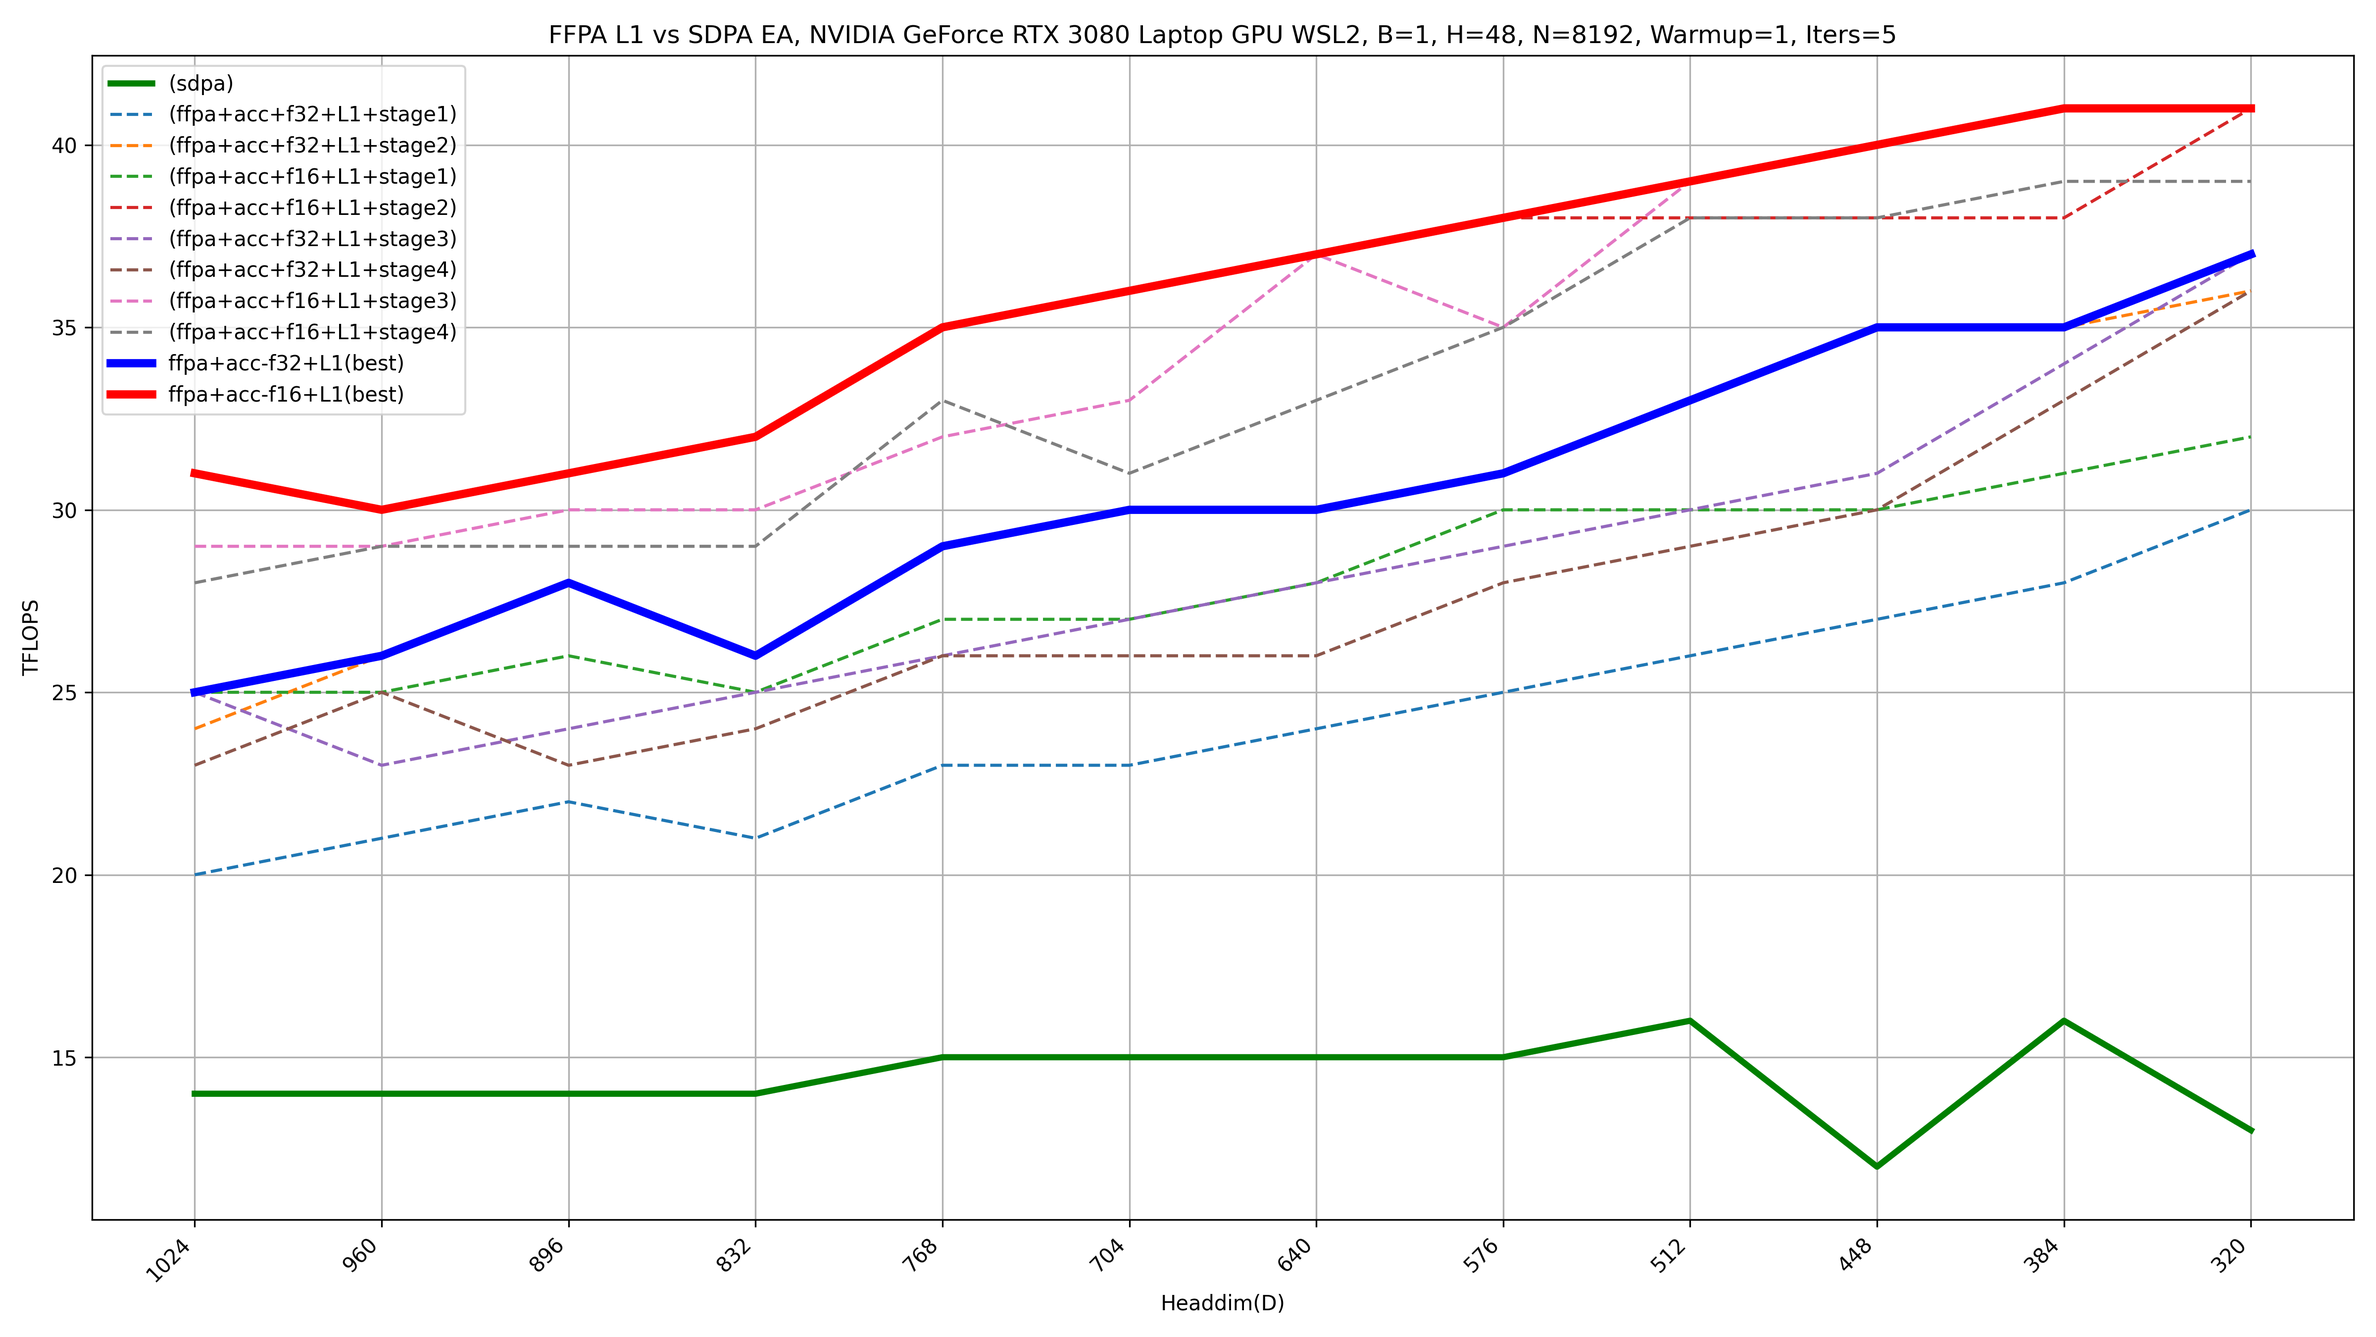
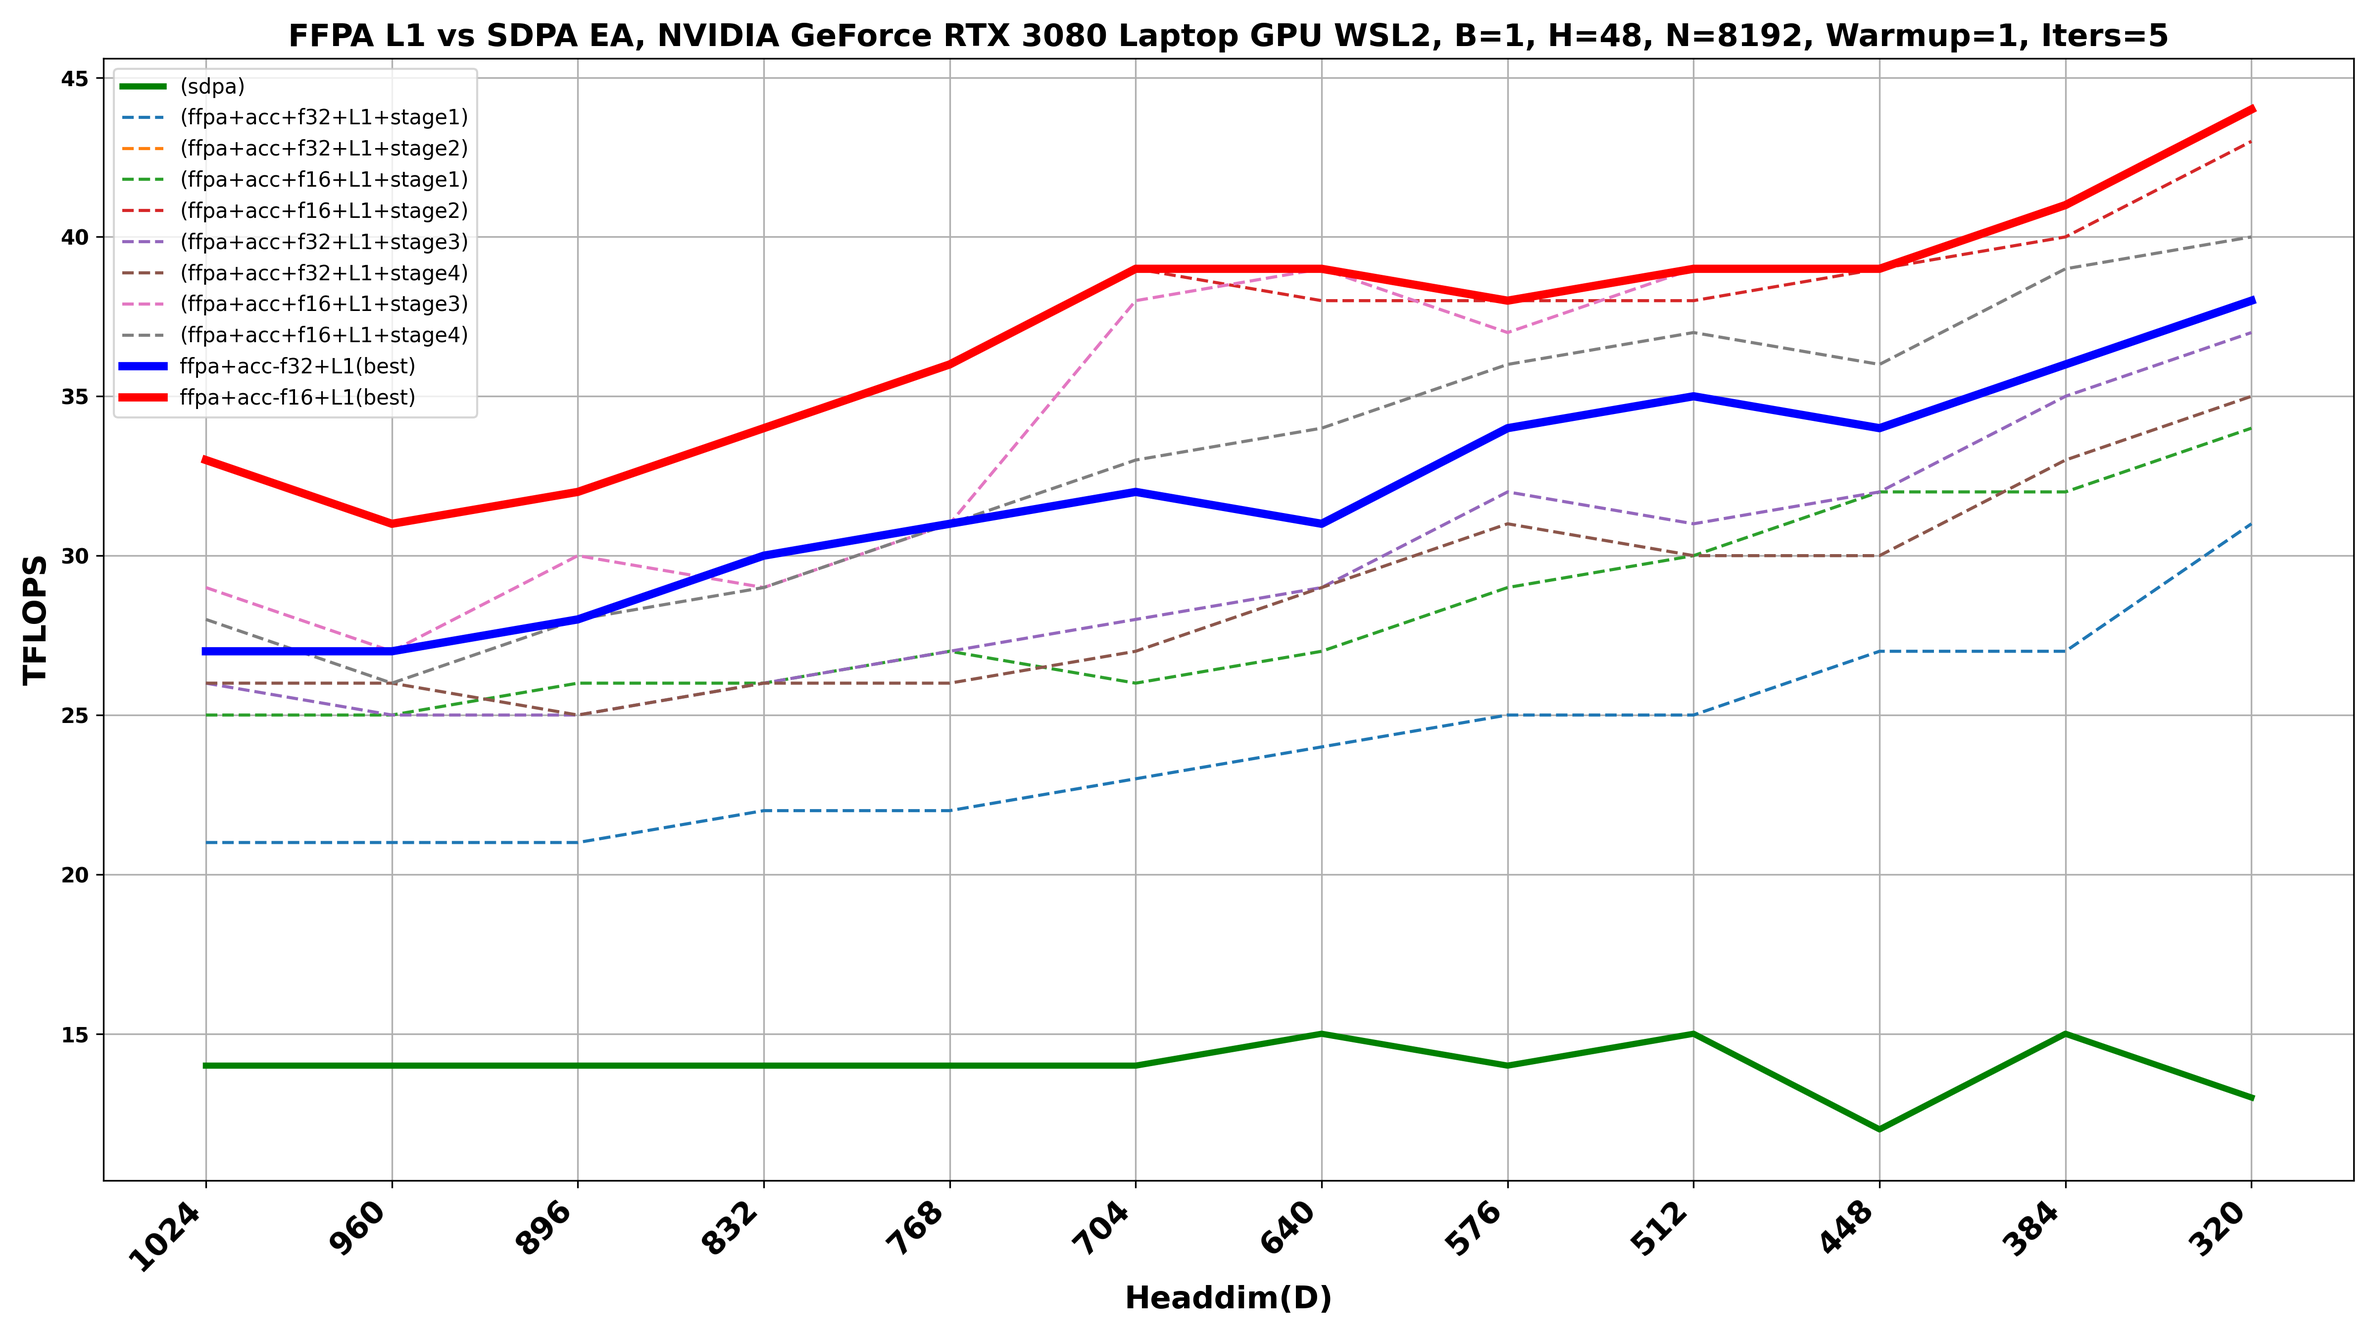
update perf plots

diff --git a/env.py b/env.py
@@ -4,7 +4,7 @@ import torch
 
 
 class ENV(object):
-    # ENVs for pyffpa compiling
+    # ENVs for FFPA kernels compiling
 
     # Project dir, path to faster-prefill-attention
     PROJECT_DIR = os.path.dirname(os.path.abspath(__file__))
@@ -41,22 +41,30 @@ class ENV(object):
     ENABLE_FFPA_PREFETCH_QKV = bool(int(os.environ.get("ENABLE_FFPA_PREFETCH_QKV", 1)))
 
     # Enable QKV smem shared policy, default False (perfered for MMA & g2s overlap).
-    # Set it as True on low SRAM device.
-    ENABLE_FFPA_QKV_SMEM_SHARE = bool(int(os.environ.get("ENABLE_FFPA_QKV_SMEM_SHARE", 0)))
+    # Please, set it as True if you want to run FFPA on low SRAM device.
+    ENABLE_FFPA_QKV_SMEM_SHARE = bool(
+        int(os.environ.get("ENABLE_FFPA_QKV_SMEM_SHARE", 0))
+    )
 
     # Enable smem swizzle for Q, default True. True: bank conflicts free for Q smem
     # via swizzle; False: bank conflicts free for Q smem via padding.
-    ENABLE_FFPA_SMEM_SWIZZLE_Q = bool(int(os.environ.get("ENABLE_FFPA_SMEM_SWIZZLE_Q", 1)))
+    ENABLE_FFPA_SMEM_SWIZZLE_Q = bool(
+        int(os.environ.get("ENABLE_FFPA_SMEM_SWIZZLE_Q", 1))
+    )
 
     # Enable smem swizzle for K, default True. True: bank conflicts free for K smem
     # via swizzle; False: bank conflicts free for K smem via padding.
-    ENABLE_FFPA_SMEM_SWIZZLE_K = bool(int(os.environ.get("ENABLE_FFPA_SMEM_SWIZZLE_K", 1)))
+    ENABLE_FFPA_SMEM_SWIZZLE_K = bool(
+        int(os.environ.get("ENABLE_FFPA_SMEM_SWIZZLE_K", 1))
+    )
 
-    # Enable smem swizzle for V, default True. True: bank conflicts free for V smem
-    # via swizzle; False: bank conflicts free for V smem via padding. 
-    # FIXME(DefTruth):swizzle V seems can not get good performance. why? Will enable 
-    # it by default untill I have fixed the performance issue.
-    ENABLE_FFPA_SMEM_SWIZZLE_V = bool(int(os.environ.get("ENABLE_FFPA_SMEM_SWIZZLE_V", 1)))
+    # Enable smem swizzle for V, now default True. True: bank conflicts free for V smem
+    # via swizzle; False: bank conflicts free for V smem via padding. FIXME(DefTruth):
+    # swizzle V seems can not get good performance. why? Will enable it by default untill
+    # I have fixed the performance issue. (Fixed)
+    ENABLE_FFPA_SMEM_SWIZZLE_V = bool(
+        int(os.environ.get("ENABLE_FFPA_SMEM_SWIZZLE_V", 1))
+    )
 
     @classmethod
     def project_dir(cls):
@@ -93,19 +101,19 @@ class ENV(object):
     @classmethod
     def enable_prefetch_qkv(cls):
         return cls.ENABLE_FFPA_PREFETCH_QKV
-    
+
     @classmethod
     def enable_qkv_smem_share(cls):
         return cls.ENABLE_FFPA_QKV_SMEM_SHARE
-    
+
     @classmethod
     def enable_smem_swizzle_q(cls):
         return cls.ENABLE_FFPA_SMEM_SWIZZLE_Q
-    
+
     @classmethod
     def enable_smem_swizzle_k(cls):
         return cls.ENABLE_FFPA_SMEM_SWIZZLE_K
-    
+
     @classmethod
     def enable_smem_swizzle_v(cls):
         return cls.ENABLE_FFPA_SMEM_SWIZZLE_V
@@ -141,7 +149,7 @@ class ENV(object):
                     f"{name:<35}: {str(value):<5} -> command:"
                     f" export {name}={int(value)}"
                 )
-            except:
+            except Exception:
                 print(f"{name:<35}: {value}")
 
         pretty_print_line("FFPA-ATTN ENVs")

diff --git a/tests/test.py b/tests/test.py
@@ -400,18 +400,19 @@ def plot_speedup_bar(
     for i, value in enumerate(speedup):
         random_color = (random.random(), random.random(), random.random())
         plt.bar(i, value, color=random_color)
-    plt.xlabel("Headdim(D)", fontsize=15, fontweight='bold')
-    plt.xticks(x, headdim, fontsize=15, fontweight='bold')
-    plt.ylabel(f"{extra_tag.upper()} SpeedUp", fontsize=15, fontweight='bold')
+    plt.xlabel("Headdim(D)", fontsize=15, fontweight="bold")
+    plt.xticks(x, headdim, fontsize=15, fontweight="bold")
+    plt.ylabel(f"{extra_tag.upper()} SpeedUp", fontsize=15, fontweight="bold")
     plt.title(
-        f"SpeedUp of {extra_tag.upper()} vs SDPA EA, {ENV.get_device_name()}", 
-        fontsize=15, fontweight='bold'
+        f"SpeedUp of {extra_tag.upper()} vs SDPA EA, {ENV.get_device_name()}",
+        fontsize=15,
+        fontweight="bold",
     )
     # Set the range of the y-axis, adjusted according to the data
     plt.ylim(0, max(speedup) + 0.5)
-    plt.yticks(fontweight='bold')
+    plt.yticks(fontweight="bold")
     for i, v in enumerate(speedup):
-        plt.text(i, v + 0.1, str(v), ha="center", fontsize=20, fontweight='bold')
+        plt.text(i, v + 0.1, str(v), ha="center", fontsize=20, fontweight="bold")
     plt.grid(True)
     # Display the graph
     device_name = ENV.get_device_name().replace(" ", "_")
@@ -440,10 +441,11 @@ def plot_tflops(level: str = "L1"):
         f"FFPA {level} vs SDPA EA, {ENV.get_device_name()}, "
         f"B={B}, H={H}, N={N}, Warmup={args.warmup}, "
         f"Iters={args.iters}",
-        fontsize=15, fontweight='bold'
+        fontsize=15,
+        fontweight="bold",
     )
-    ax.set_xlabel("Headdim(D)", fontsize=15, fontweight='bold')
-    ax.set_ylabel("TFLOPS", fontsize=15, fontweight='bold')
+    ax.set_xlabel("Headdim(D)", fontsize=15, fontweight="bold")
+    ax.set_ylabel("TFLOPS", fontsize=15, fontweight="bold")
     ax.grid(True)
 
     get_best_tflops()
@@ -451,8 +453,11 @@ def plot_tflops(level: str = "L1"):
 
     ax.set_xticks(np.arange(0, len(new_statis_info["headdim"]), 1))
     ax.set_xticklabels(
-        new_statis_info["headdim"], rotation=45, ha="right",
-        fontsize=15, fontweight='bold'
+        new_statis_info["headdim"],
+        rotation=45,
+        ha="right",
+        fontsize=15,
+        fontweight="bold",
     )
     exclude_tags = []
     exclude_tags.append("headdim")
@@ -489,9 +494,10 @@ def plot_tflops(level: str = "L1"):
                 ax.plot(tflops, label=tag, linewidth=4, color="red")
             else:
                 ax.plot(tflops, label=tag, linestyle="--")
-                
+
     for label in ax.get_yticklabels():
-        label.set_fontweight('bold')
+        label.set_fontweight("bold")
+
     ax.legend()
     device_name = ENV.get_device_name().replace(" ", "_")
     if args.save_tag:

diff --git a/README.md b/README.md
@@ -11,11 +11,11 @@
   <img src=https://img.shields.io/badge/License-GPLv3.0-turquoise.svg >
  </div>
 
-🤖[WIP] **FFPA**: Yet antother **Faster Flash Prefill Attention** with **O(1) SRAM complexity** & **O(d/4) or O(1) register complexity** for large headdim (D > 256), almost **1.5x~2x** 🎉 faster than SDPA EA with or without MMA Acc F32 on many devices: [📈L20 ~1.9x↑🎉](#L1-bench-l20), [📈 A30 ~1.8x↑🎉](#L1-bench-a30), [📈3080 ~2.8x↑🎉](#L1-bench-3080), [📈4090 ~2.1x↑🎉](#L1-bench-4090). 
+🤖[WIP] **FFPA**: Yet antother **Faster Flash Prefill Attention** with **O(1) SRAM complexity** & **O(d/4) or O(1) register complexity** for large headdim (D > 256), almost **1.5x~2x** 🎉 faster than SDPA EA with or without MMA Acc F32 on many devices: [📈L20 ~1.9x↑🎉](#L1-bench-l20), [📈 A30 ~1.8x↑🎉](#L1-bench-a30), [📈3080 ~2.9x↑🎉](#L1-bench-3080), [📈4090 ~2.1x↑🎉](#L1-bench-4090). 
 
 <div align='center'>
-  <img src='https://github.com/user-attachments/assets/f42cf7d5-3a52-4a33-bb21-df1d376c0950' width="407px">
-  <img src='https://github.com/user-attachments/assets/0ed1a3e8-b986-4811-bc3f-f180044c5125' width="407px">
+  <img src='https://github.com/user-attachments/assets/447e2937-f7c8-47c8-8550-8c0c71b910e6' width="407px">
+  <img src='https://github.com/user-attachments/assets/65a8d564-8fa7-4d66-86b9-e238feb86143' width="407px">
 </div> 
 
 💡NOTE: This project is still in its early dev stages and now provides some kernels and benchmarks for reference. More features will be added in the future. (Welcome to 🌟👆🏻star this repo to support me ~)
@@ -39,7 +39,7 @@
 - [📖 FFPA L1~L3 Design💡](#ffpa-design)
 - [📈 FFPA L1: L20 ~1.9x↑🎉](#L1-bench-l20)
 - [📈 FFPA L1: A30 ~1.8x↑🎉](#L1-bench-a30)
-- [📈 FFPA L1: 3080 ~2.8x↑🎉](#L1-bench-3080)
+- [📈 FFPA L1: 3080 ~2.9x↑🎉](#L1-bench-3080)
 - [📈 FFPA L1: 4090 ~2.1x↑🎉](#L1-bench-4090)
 
 ## 📖 FFPA L1~L3: FlashAttention + QKV Fine-grained Tiling at MMA level💡
@@ -93,15 +93,18 @@ python3 setup.py bdist_wheel && cd dist && python3 -m pip install *.whl # pip un
 ## 📖 FFPA L1 (Level 1): Benchmark 🎉🎉
 
 <!--
-![NVIDIA_A30_ffpa+acc+f16+L1_Speedup](https://github.com/user-attachments/assets/f9fe3fb8-0928-47a3-a244-585d5f1cf9e8)
-![NVIDIA_A30_ffpa+acc+f32+L1_Speedup](https://github.com/user-attachments/assets/5df6300a-cd5b-404d-9e85-d90017321f1d)
-![NVIDIA_A30](https://github.com/user-attachments/assets/c99ade22-5d5a-4d9a-8fcb-b85f153d0ad3)
-![NVIDIA_GeForce_RTX_4090_ffpa+acc+f16+L1_Speedup](https://github.com/user-attachments/assets/f42cf7d5-3a52-4a33-bb21-df1d376c0950)
-![NVIDIA_GeForce_RTX_4090_ffpa+acc+f32+L1_Speedup](https://github.com/user-attachments/assets/0ed1a3e8-b986-4811-bc3f-f180044c5125)
-![NVIDIA_GeForce_RTX_4090](https://github.com/user-attachments/assets/7eabe0dc-4bca-4a33-ab01-84955f8e65d1)
-![NVIDIA_L20_ffpa+acc+f16+L1_Speedup](https://github.com/user-attachments/assets/fe3fb948-41c2-44ae-bb35-85a7754b17cb)
-![NVIDIA_L20_ffpa+acc+f32+L1_Speedup](https://github.com/user-attachments/assets/d5500148-e1f1-4ae9-b9d3-8291d3188350)
-![NVIDIA_L20](https://github.com/user-attachments/assets/eee4e075-97b8-4063-bb14-b413d7b46333)
+![NVIDIA_A30](https://github.com/user-attachments/assets/69be99e4-977f-4a8c-bef5-9d6667241e23)
+![NVIDIA_A30_ffpa+acc+f16+L1_Speedup](https://github.com/user-attachments/assets/7e323005-4445-41af-8e94-6efb62ed2b77)
+![NVIDIA_A30_ffpa+acc+f32+L1_Speedup](https://github.com/user-attachments/assets/e314649e-82b5-414d-85c9-8b6fbf260138)
+![NVIDIA_GeForce_RTX_3080_Laptop_GPU_WSL2](https://github.com/user-attachments/assets/be071842-25a7-4477-acc8-14d6e2ff5a54)
+![NVIDIA_GeForce_RTX_3080_Laptop_GPU_WSL2_ffpa+acc+f16+L1_Speedup](https://github.com/user-attachments/assets/d157cd69-4444-4735-a691-edaaff408137)
+![NVIDIA_GeForce_RTX_3080_Laptop_GPU_WSL2_ffpa+acc+f32+L1_Speedup](https://github.com/user-attachments/assets/3ce47627-e79d-40ee-b753-bdd235603b7d)
+![NVIDIA_GeForce_RTX_4090](https://github.com/user-attachments/assets/cba2edce-ac0d-412e-823c-7eea2cc63f83)
+![NVIDIA_GeForce_RTX_4090_ffpa+acc+f16+L1_Speedup](https://github.com/user-attachments/assets/447e2937-f7c8-47c8-8550-8c0c71b910e6)
+![NVIDIA_GeForce_RTX_4090_ffpa+acc+f32+L1_Speedup](https://github.com/user-attachments/assets/65a8d564-8fa7-4d66-86b9-e238feb86143)
+![NVIDIA_L20](https://github.com/user-attachments/assets/6be1708c-9491-4dc8-92cc-a3d48a335784)
+![NVIDIA_L20_ffpa+acc+f16+L1_Speedup](https://github.com/user-attachments/assets/a4927108-3f97-4209-9b80-bb31ad271e04)
+![NVIDIA_L20_ffpa+acc+f32+L1_Speedup](https://github.com/user-attachments/assets/eeb9943f-919d-45d8-a8a6-e0f8874f4bcd)
 -->
 
 <div id="L1-bench-l20"></div>
@@ -129,8 +132,8 @@ L1: level 1, O(2xBrx16)≈O(1) SRAM complexity, O(d/4) register complexity, the 
 |Speedup|1.86x|1.61x|1.78x|1.76x|1.87x|1.84x|1.89x|1.71x|1.74x|1.71x|1.85x|1.79x|
 
 <div align='center'>
-  <img src='https://github.com/user-attachments/assets/fe3fb948-41c2-44ae-bb35-85a7754b17cb' width="407px">
-  <img src='https://github.com/user-attachments/assets/d5500148-e1f1-4ae9-b9d3-8291d3188350' width="407px">
+  <img src='https://github.com/user-attachments/assets/a4927108-3f97-4209-9b80-bb31ad271e04' width="407px">
+  <img src='https://github.com/user-attachments/assets/eeb9943f-919d-45d8-a8a6-e0f8874f4bcd' width="407px">
 </div> 
 
 <div id="L1-bench-a30"></div>
@@ -156,8 +159,8 @@ L1: level 1, O(2xBrx16)≈O(1) SRAM complexity, O(d/4) register complexity, the 
 |Speedup|1.92x|1.84x|1.88x|1.79x|1.83x|1.83x|1.91x|1.73x|1.68x|1.64x|1.77x|1.89x|
 
 <div align='center'>
-  <img src='https://github.com/user-attachments/assets/f9fe3fb8-0928-47a3-a244-585d5f1cf9e8' width="407px">
-  <img src='https://github.com/user-attachments/assets/5df6300a-cd5b-404d-9e85-d90017321f1d' width="407px">
+  <img src='https://github.com/user-attachments/assets/7e323005-4445-41af-8e94-6efb62ed2b77' width="407px">
+  <img src='https://github.com/user-attachments/assets/e314649e-82b5-414d-85c9-8b6fbf260138' width="407px">
 </div> 
 
 <div id="L1-bench-3080"></div>
@@ -166,13 +169,13 @@ L1: level 1, O(2xBrx16)≈O(1) SRAM complexity, O(d/4) register complexity, the 
 
 |Algorithm|320|384|448|512|576|640|704|768|832|896|960|1024|
 |:---:|:---:|:---:|:---:|:---:|:---:|:---:|:---:|:---:|:---:|:---:|:---:|:---:|
-|SDPA EA|13T|16T|12T|16T|15T|15T|14T|14T|14T|14T|14T|14T|
-|FFPA L1*|33T|31T|31T|28T|28T|27T|26T|25T|25T|24T|23T|23T|
-|Speedup|2.54x|1.94x|2.58x|1.75x|1.87x|1.8x|1.86x|1.79x|1.79x|1.71x|1.64x|1.64x|
-|FFPA L1^|41T|40T|39T|38T|37T|36T|36T|34T|33T|32T|30T|30T|
-|Speedup|3.15x|2.5x|3.25x|2.38x|2.47x|2.4x|2.57x|2.43x|2.36x|2.29x|2.14x|2.14x|
+|SDPA EA|13T|16T|11T|16T|15T|15T|15T|15T|14T|14T|14T|14T|
+|FFPA L1*|33T|31T|30T|30T|30T|27T|27T|26T|26T|26T|26T|25T|
+|Speedup|2.54x|1.94x|2.73x|1.88x|2.0x|1.8x|1.8x|1.73x|1.86x|1.86x|1.86x|1.79x|
+|FFPA L1^|43T|41T|39T|39T|39T|39T|39T|36T|34T|33T|31T|33T|
+|Speedup|3.31x|2.56x|3.55x|2.44x|2.6x|2.6x|2.6x|2.4x|2.43x|2.36x|2.21x|2.36x|
 
-- 📚 NVIDIA RTX 3080 Laptop (`*`=MMA Acc: QK F32 + PV F16, `^`=MMA Acc F16, `T`=TFLOPS, **~2.8x↑🎉**)
+- 📚 NVIDIA RTX 3080 Laptop (`*`=MMA Acc: QK F32 + PV F16, `^`=MMA Acc F16, `T`=TFLOPS, **~2.9x↑🎉**)
 
 |Algorithm|320|384|448|512|576|640|704|768|832|896|960|1024|
 |:---:|:---:|:---:|:---:|:---:|:---:|:---:|:---:|:---:|:---:|:---:|:---:|:---:|
@@ -182,9 +185,17 @@ L1: level 1, O(2xBrx16)≈O(1) SRAM complexity, O(d/4) register complexity, the 
 |FFPA L1^|41T|41T|40T|39T|38T|37T|36T|35T|32T|31T|30T|31T|
 |Speedup|3.15x|2.56x|3.33x|2.44x|2.53x|2.47x|2.4x|2.33x|2.29x|2.21x|2.14x|2.21x|
 
+|Algorithm|320|384|448|512|576|640|704|768|832|896|960|1024|
+|:---:|:---:|:---:|:---:|:---:|:---:|:---:|:---:|:---:|:---:|:---:|:---:|:---:|
+|SDPA EA|13T|15T|12T|15T|14T|15T|14T|14T|14T|14T|14T|14T|
+|FFPA L1*|38T|36T|34T|35T|34T|31T|32T|31T|30T|28T|27T|27T|
+|Speedup|2.92x|2.4x|2.83x|2.33x|2.43x|2.07x|2.29x|2.21x|2.14x|2.0x|1.93x|1.93x|
+|FFPA L1^|44T|41T|39T|39T|38T|39T|39T|36T|34T|32T|31T|33T|
+|Speedup|3.38x|2.73x|3.25x|2.6x|2.71x|2.6x|2.79x|2.57x|2.43x|2.29x|2.21x|2.36x|
+
 <div align='center'>
-  <img src='https://github.com/user-attachments/assets/7dc42fa1-a10e-453c-8e2c-befba6f12719' width="407px">
-  <img src='https://github.com/user-attachments/assets/c0443e13-94a4-4d29-8f77-e326e62a668e' width="407px">
+  <img src='https://github.com/user-attachments/assets/d157cd69-4444-4735-a691-edaaff408137' width="407px">
+  <img src='https://github.com/user-attachments/assets/3ce47627-e79d-40ee-b753-bdd235603b7d' width="407px">
 </div> 
 
 <div id="L1-bench-4090"></div>
@@ -210,8 +221,8 @@ L1: level 1, O(2xBrx16)≈O(1) SRAM complexity, O(d/4) register complexity, the 
 |Speedup|2.44x|2.08x|2.22x|2.27x|2.41x|2.32x|2.35x|2.24x|2.24x|2.19x|2.23x|2.18x|
 
 <div align='center'>
-  <img src='https://github.com/user-attachments/assets/f42cf7d5-3a52-4a33-bb21-df1d376c0950' width="407px">
-  <img src='https://github.com/user-attachments/assets/0ed1a3e8-b986-4811-bc3f-f180044c5125' width="407px">
+  <img src='https://github.com/user-attachments/assets/447e2937-f7c8-47c8-8550-8c0c71b910e6' width="407px">
+  <img src='https://github.com/user-attachments/assets/65a8d564-8fa7-4d66-86b9-e238feb86143' width="407px">
 </div> 
 
 ## 📖 Python Testing
